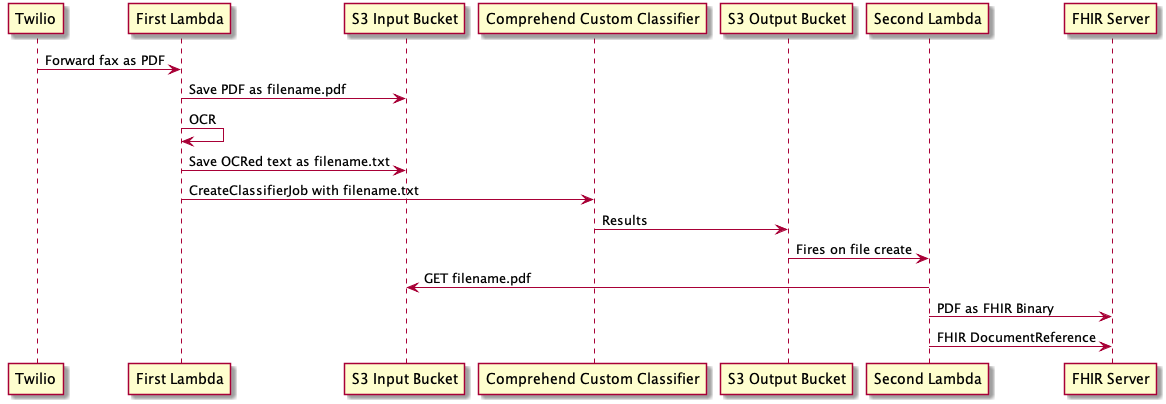
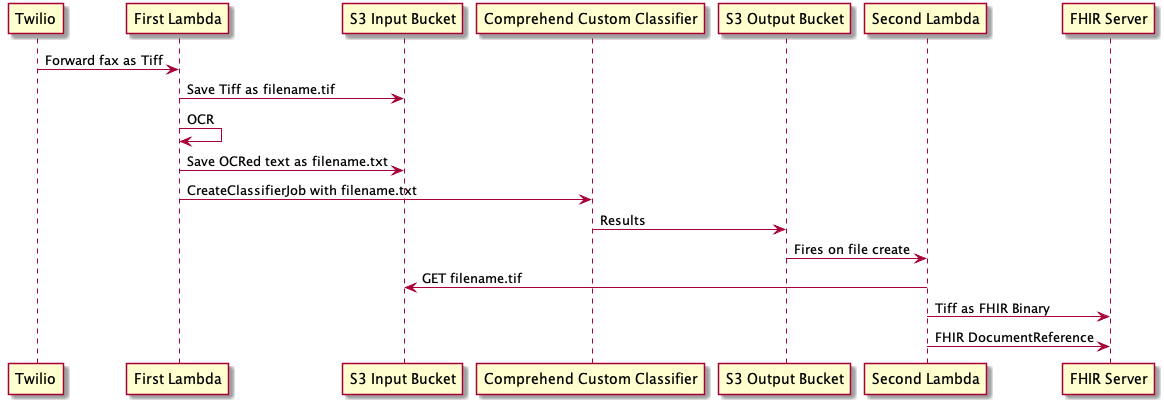
WIP

diff --git a/src/handlers.js b/src/handlers.js
@@ -5,9 +5,9 @@ const OCR = require('tesseract.js');
 const fs = require('fs');
 const tar = require('tar');
 const imageMagick = require('gm').subClass({imageMagick: true});
+const fhirKitClient = require('fhir-kit-client');
 
 exports.pdfUploadHandler = async (event, context, callback) => {
-  console.log('Version 10:08')
   downloadFax(event);
 
   callback(null, "Success")
@@ -18,14 +18,14 @@ exports.comprehendCompletionHandler = async (event, context, callback) => {
   if (event.Records[0].s3.object.key.match('write_access_check_file.temp')) {
     return { statusCode: 200 }
   };
-  const faxId = s3Event.object.key.match(/(.+)\/.+\/output/)[1];
+  const faxId = s3Event.object.key.match(/(.+?)\/.+\/output/)[1];
   s3.getObject({
     Bucket: s3Event.bucket.name,
     Key: s3Event.object.key
   }, (err, data) => {
     fs.writeFileSync('/tmp/output.tar.gz', data.Body);
     tar.extract({ file: '/tmp/output.tar.gz', cwd: '/tmp/', sync: true });
-    const output = fs.readFileSync('/tmp/predictions.jsonl')
+    const output = JSON.parse(fs.readFileSync('/tmp/predictions.jsonl').toString());
     const docType = output.Classes.reduce((prev, curr) => {
       return (prev.Score > curr.Score) ? prev : curr
     }).Name
@@ -33,14 +33,35 @@ exports.comprehendCompletionHandler = async (event, context, callback) => {
     s3.getObject({
       Bucket: process.env.S3_BUCKET_FOR_FAX,
       Key: faxId + '.tif'
+    }, (err, data) => {
+      const Client = new fhirKitClient({
+        baseUrl: process.env.FHIR_SERVER_BASE_URL
+      });
+
+      Client.create({
+        resourceType: 'Binary',
+        body: {
+          contentType: 'image/tiff',
+          data: data.Body.toString('base64')
+        }
+      }).then((res) => {
+        const binaryUrl = res.issue[0].diagnostics.match(/"(.+)"/)[1]
+        Client.create({
+          resourceType: 'DocumentReference',
+          body: {
+            resourceType: 'DocumentReference',
+            status: 'current',
+            type: { coding: [{ code: docType, system: 'http://example.com' }] },
+            content: {
+              attachment: { url: binaryUrl }
+            }
+          }
+        }).catch((err) => console.log(err.response.data)).then((res) => { console.log(res) });
+      });
     })
 
   });
   callback(null, "Success");
-  //const classification = await getComprehendResults(event);
-  //const pdf = await getFax(event);
-  //const binaryResponse = await uploadFHIRBinary(pdf);
-  //await uploadFHIRDocumentReference(classification, binaryResponse);
 }
 
 const downloadFax = async (event) => {
@@ -65,7 +86,6 @@ const downloadFax = async (event) => {
         uploadToS3(result.text, bodyAttrs.FaxSid + '.txt', (err) => {
           if(err) { console.log(err) };
           const comprehend = new AWS.Comprehend();
-          console.log(comprehend);
           comprehend.startDocumentClassificationJob({
             DataAccessRoleArn: process.env.CLASSIFIER_ROLE_ARN,
             DocumentClassifierArn: process.env.CLASSIFIER_ARN,
